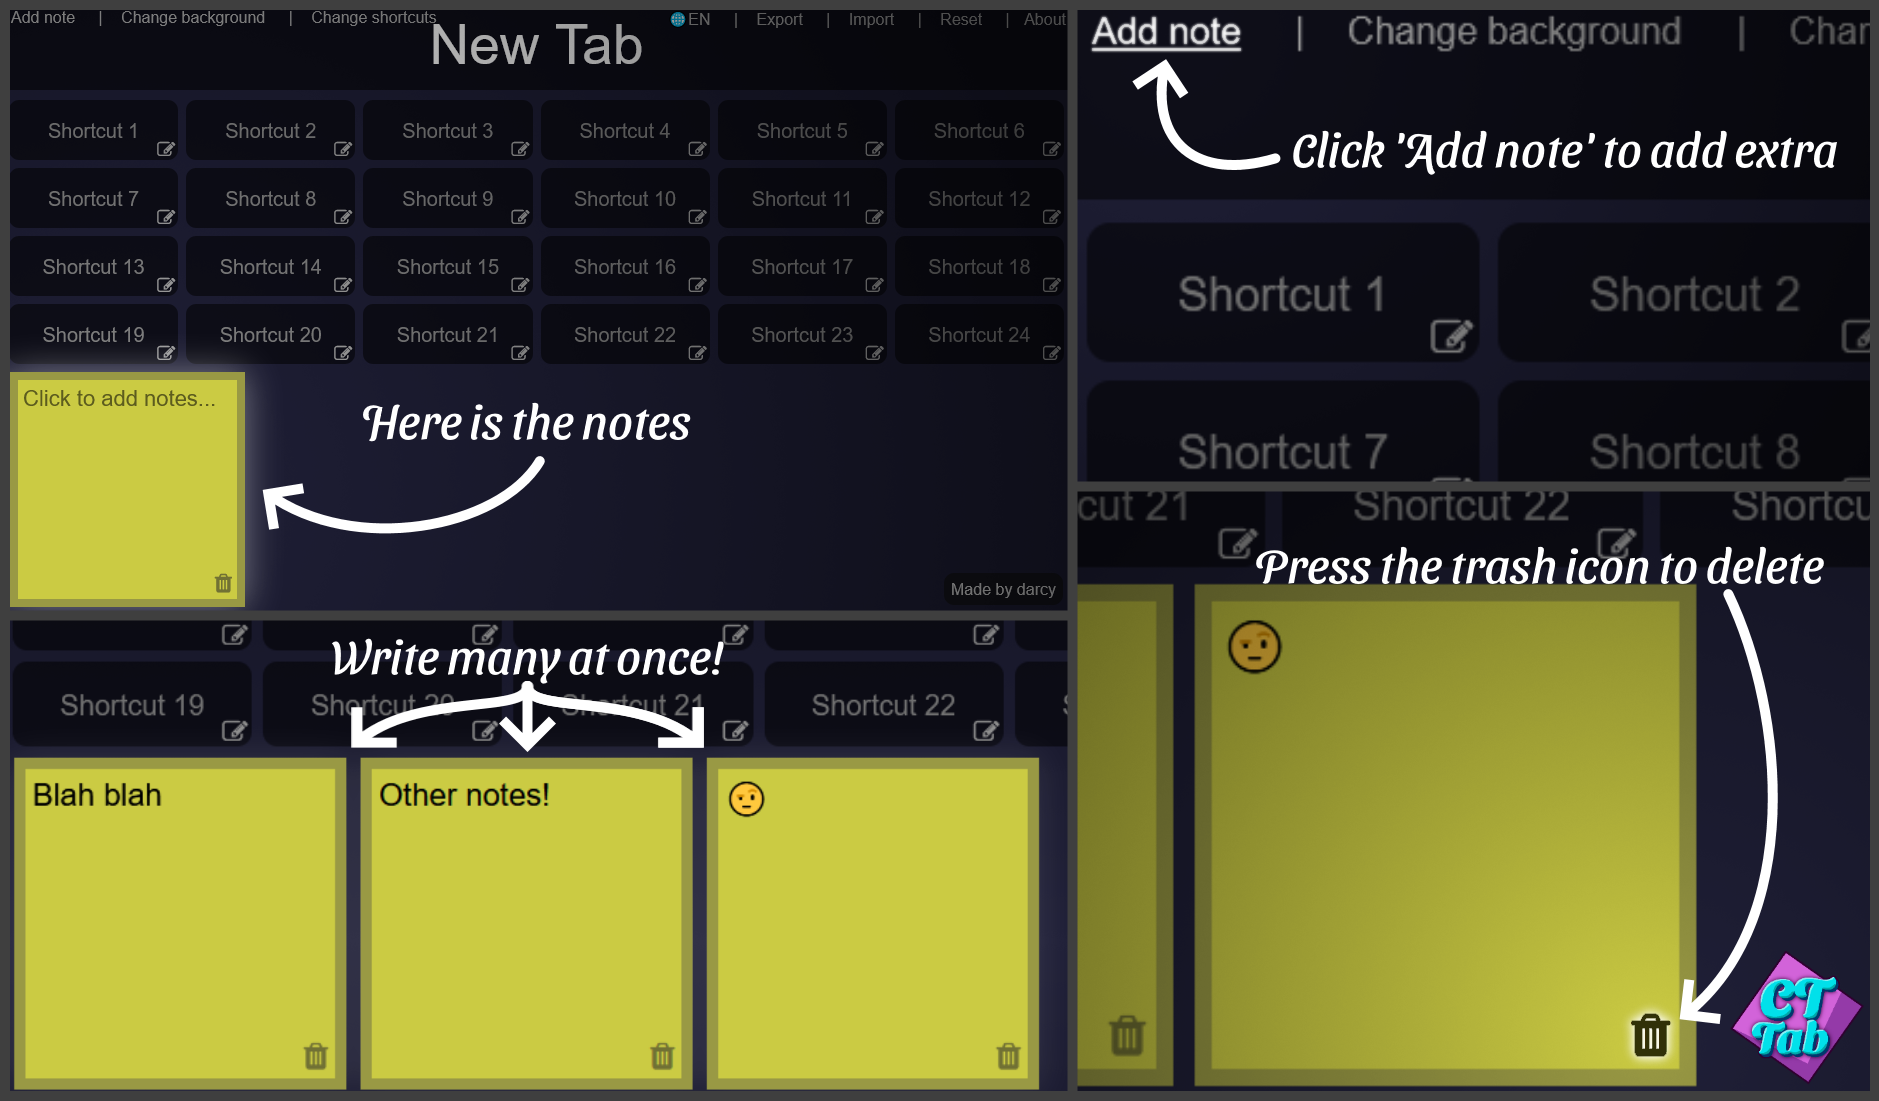
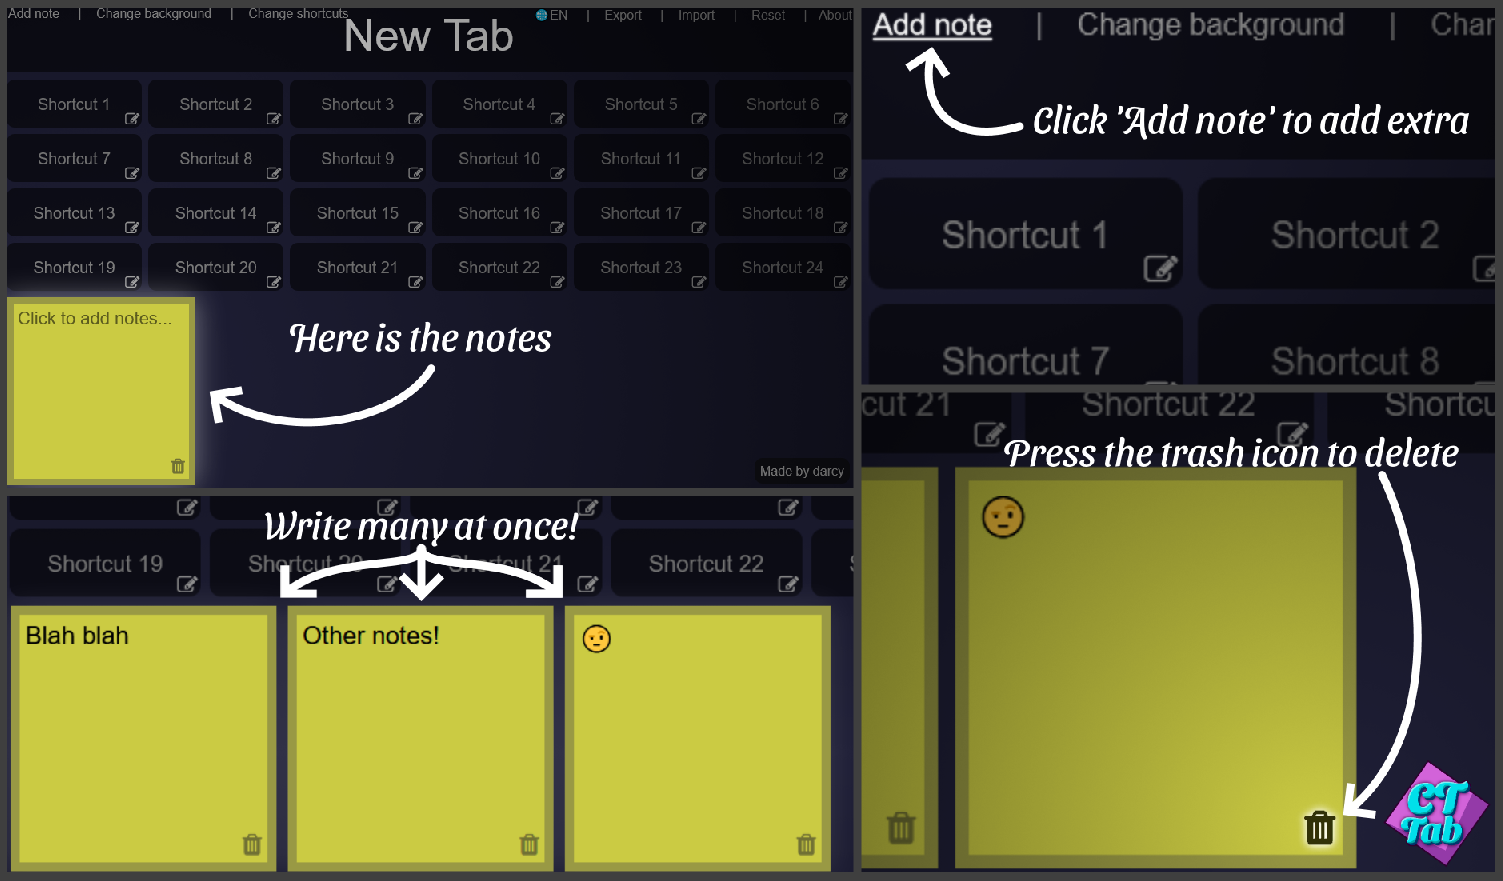
README: Added screenshot

diff --git a/README.md b/README.md
@@ -8,7 +8,9 @@ The '_CT_' in the name stands for '_Custom Tab_' :)
 
 Works on Firefox, Chrome, and possible more!
 
-# Contents
+<img src="./image/tutorial/main.png" alt="Screenshot of CTTab page" />
+
+# Contentsz
 
 - [Features](#features) - Explains the Awesome Features!
 - [Setup](#setup) - How to set up on browser
